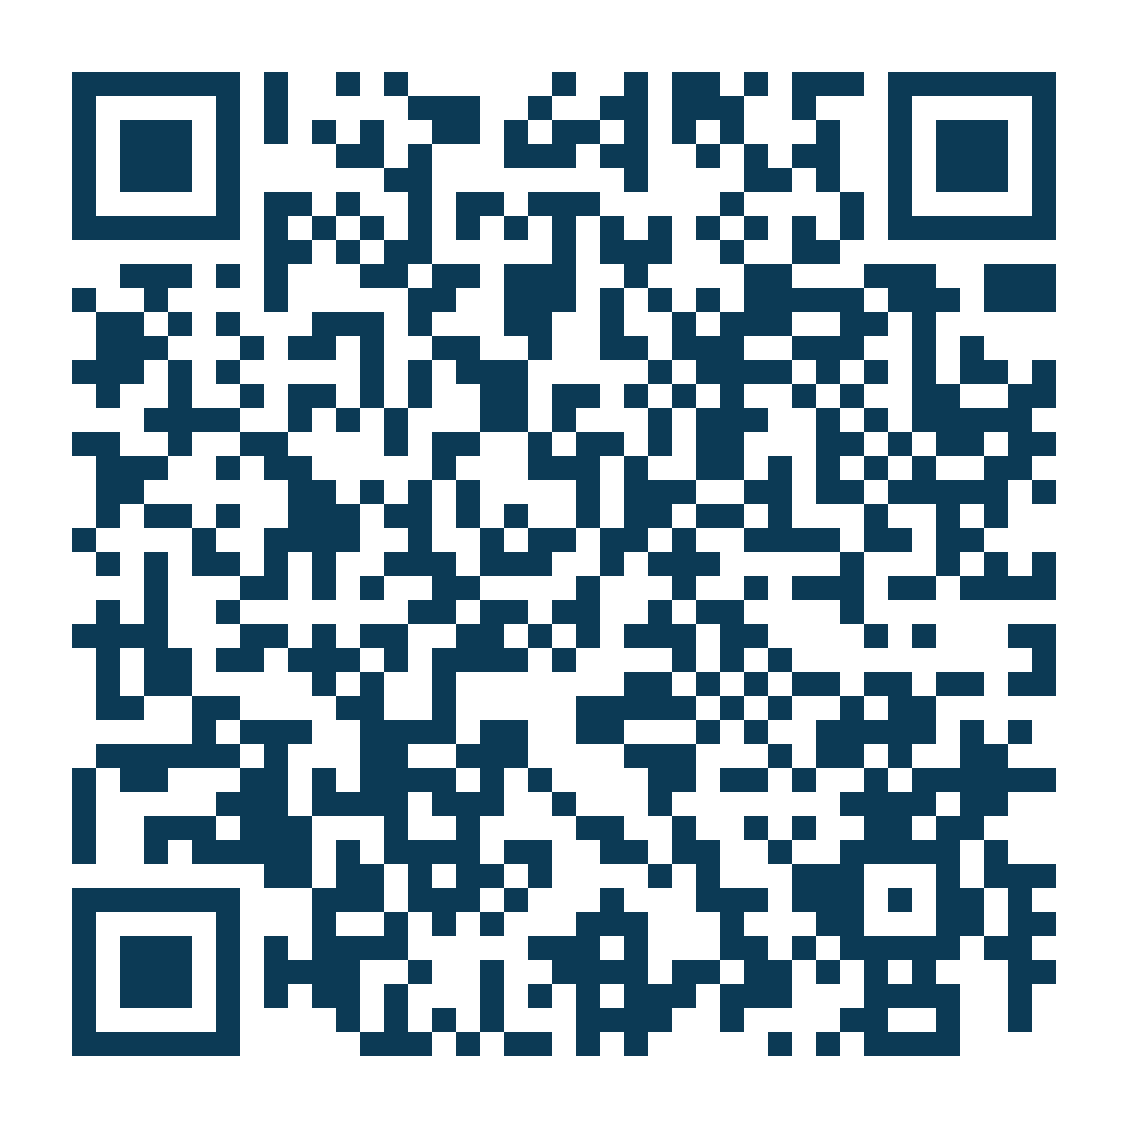
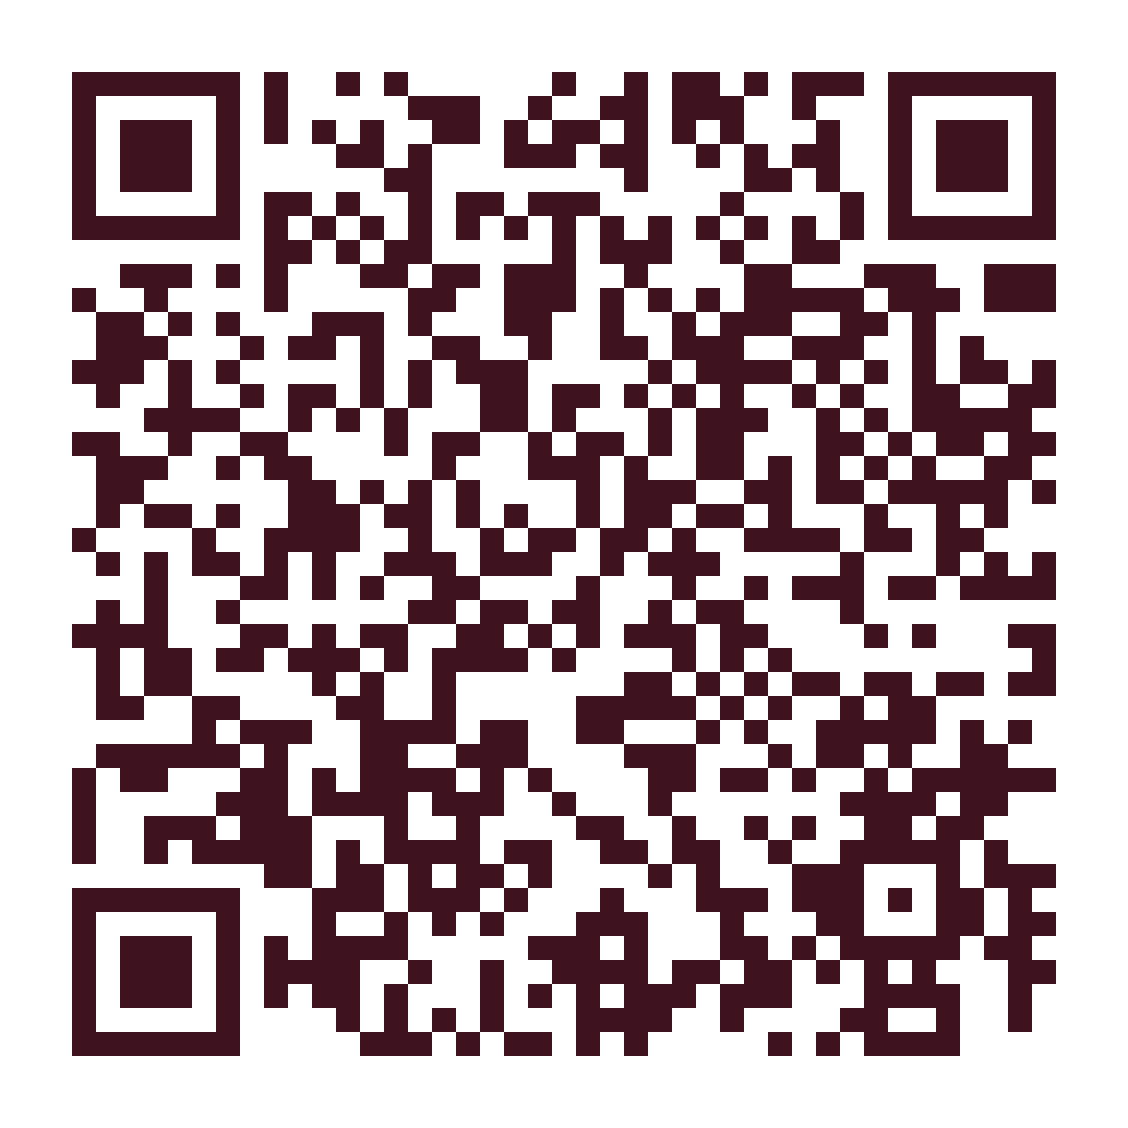
Paleta académica: vino y dorado en sitio, tarjeta, ícono y QR
Claude-Session: https://claude.ai/code/session_01FZGBeBnK8nJ8RkppgTbDx8

diff --git a/index.html b/index.html
@@ -6,7 +6,7 @@
 <title>Leonar Socarrás Molina, PhD · IA en educación</title>
 <meta name="description" content="Leonar Socarrás Molina, PhD. Docente-investigador en inteligencia artificial aplicada a la educación, STEM, Diseño Universal para el Aprendizaje y ciencia de datos. Valledupar, Colombia.">
 <meta name="author" content="Leonar Socarrás Molina">
-<meta name="theme-color" content="#0c3a55">
+<meta name="theme-color" content="#3f1220">
 <meta property="og:title" content="Leonar Socarrás Molina, PhD">
 <meta property="og:description" content="Docente-investigador en IA aplicada a la educación, STEM y DUA. Valledupar, Colombia.">
 <meta property="og:type" content="profile">
@@ -23,11 +23,11 @@
 </script>
 <style>
   :root{
-    --navy:#0c3a55;--navy-deep:#092d43;--ink:#0c3a55;--text:#3c4d5c;--muted:#5b6b78;
-    --bg:#ffffff;--bg-alt:#f3f8fb;--line:#d9e4ec;
-    --gold:#f4cf1f;--gold-ink:#a07f00;--gold-soft:#fff6cc;
-    --on-dark-muted:#cfdbe4;
-    --hero:linear-gradient(110deg,#3d5b8f 0%,#3b6f86 48%,#56767f 100%);
+    --navy:#3f1220;--navy-deep:#2e0c17;--ink:#3f1220;--text:#4a3b3e;--muted:#6e5d60;
+    --bg:#ffffff;--bg-alt:#faf6f2;--line:#eadfd8;
+    --gold:#d4a52c;--gold-ink:#8a6a12;--gold-soft:#f8edcf;
+    --on-dark-muted:#ead9dc;
+    --hero:linear-gradient(110deg,#5a1a2b 0%,#7a2a3c 55%,#8a3a45 100%);
     --font:"Montserrat",system-ui,-apple-system,"Segoe UI",sans-serif;
     --r-sm:8px;--r-md:14px;--wrap:1160px;
   }
@@ -58,13 +58,13 @@
   .figura{position:relative;width:380px;height:470px;margin-left:60px;}
   .rejilla{position:absolute;left:120px;top:-24px;width:300px;height:400px;border-left:1px solid rgba(255,255,255,.85);border-top:1px solid rgba(255,255,255,.85);
     background-image:linear-gradient(rgba(255,255,255,.85) 1px,transparent 1px),linear-gradient(90deg,rgba(255,255,255,.85) 1px,transparent 1px);background-size:100px 100px;}
-  .arco{position:absolute;inset:0;border-radius:190px 190px 0 0;overflow:hidden;background:#b9cfdc;}
+  .arco{position:absolute;inset:0;border-radius:190px 190px 0 0;overflow:hidden;background:#d9c2c6;}
   .arco img{width:100%;height:100%;object-fit:cover;object-position:50% 40%;}
   .estrella{position:absolute;fill:var(--gold);}
   .estrella.grande{width:150px;height:150px;left:-60px;top:-80px;z-index:1;}
   .texto-heroe{padding-bottom:8px;max-width:620px;}
   .texto-heroe h1{font-size:clamp(2.1rem,3.6vw,3rem);line-height:1.12;font-weight:700;margin:0 0 20px;letter-spacing:-.01em;}
-  .texto-heroe .intro{font-size:1.12rem;margin:0 0 26px;color:#eef3f7;}
+  .texto-heroe .intro{font-size:1.12rem;margin:0 0 26px;color:#f3e9ea;}
   .texto-heroe .intro strong{color:#fff;font-weight:700;}
   .redes{display:flex;gap:10px;margin:0 0 54px;padding:0;list-style:none;}
   .redes a{display:grid;place-items:center;width:42px;height:42px;border-radius:50%;text-decoration:none;font-weight:700;font-size:.85rem;border:1px solid rgba(255,255,255,.55);transition:background-color .15s,color .15s;}
@@ -97,13 +97,13 @@
   .cifras dd{margin:10px 0 0;color:var(--ink);font-weight:500;font-size:1rem;}
   .tarjetas{display:grid;grid-template-columns:repeat(3,1fr);gap:24px;}
   .tarjeta{background:#fff;border:1px solid var(--line);border-radius:var(--r-md);padding:30px 28px;transition:box-shadow .2s,transform .2s;}
-  .tarjeta:hover{box-shadow:0 14px 34px rgba(12,58,85,.10);transform:translateY(-3px);}
+  .tarjeta:hover{box-shadow:0 14px 34px rgba(63,18,32,.10);transform:translateY(-3px);}
   .tarjeta svg{width:34px;height:34px;fill:var(--gold);margin-bottom:18px;}
   .tarjeta h3{font-size:1.14rem;color:var(--ink);margin:0 0 10px;font-weight:700;line-height:1.3;}
   .tarjeta p{margin:0;font-size:.97rem;color:var(--muted);}
   .pista{display:grid;grid-auto-flow:column;grid-auto-columns:calc((100% - 48px)/3);gap:24px;overflow-x:auto;scroll-snap-type:x mandatory;padding:4px 2px 20px;scrollbar-width:thin;}
   .pub{scroll-snap-align:start;background:#fff;border:1px solid var(--line);border-radius:var(--r-md);padding:28px;display:flex;flex-direction:column;gap:14px;}
-  .pub .anio{align-self:flex-start;background:var(--gold-soft);color:#7a5f00;font-weight:700;font-size:.82rem;padding:4px 12px;border-radius:999px;}
+  .pub .anio{align-self:flex-start;background:var(--gold-soft);color:#6b5208;font-weight:700;font-size:.82rem;padding:4px 12px;border-radius:999px;}
   .pub h3{margin:0;color:var(--ink);font-size:1.02rem;line-height:1.4;font-weight:600;}
   .pub .revista{margin:0;color:var(--muted);font-size:.9rem;font-style:italic;}
   .pub a{margin-top:auto;color:var(--navy);font-weight:600;font-size:.9rem;text-decoration:none;}
@@ -134,7 +134,7 @@
   .linea-tiempo span.d{display:block;font-size:.93rem;color:var(--muted);}
   .nota{font-size:.93rem;color:var(--muted);margin:8px 0 0;}
   .instituciones{display:flex;flex-wrap:wrap;justify-content:center;gap:16px 44px;margin:0;padding:0;list-style:none;}
-  .instituciones li{font-weight:700;color:#5b6b78;font-size:1.02rem;}
+  .instituciones li{font-weight:700;color:#6e5d60;font-size:1.02rem;}
   .chips{display:flex;flex-wrap:wrap;gap:10px;margin:0;padding:0;list-style:none;}
   .chips li{background:#fff;border:1px solid var(--line);border-radius:999px;padding:7px 16px;font-size:.92rem;color:var(--ink);font-weight:500;}
   .cierre{background:var(--navy);color:#fff;padding:88px 0;position:relative;overflow:hidden;}
@@ -158,7 +158,7 @@
   .acc-cabeza{display:flex;justify-content:space-between;align-items:flex-end;gap:24px;flex-wrap:wrap;margin-bottom:32px;}
   .acordeon{display:grid;gap:14px;}
   .acc{background:#fff;border:1px solid var(--line);border-radius:var(--r-md);overflow:hidden;transition:box-shadow .2s,border-color .2s;scroll-margin-top:20px;}
-  .acc[open]{border-color:#b8cad7;box-shadow:0 14px 34px rgba(12,58,85,.08);}
+  .acc[open]{border-color:#d8c3bd;box-shadow:0 14px 34px rgba(63,18,32,.08);}
   .acc summary{list-style:none;display:flex;align-items:center;gap:18px;padding:20px 24px;cursor:pointer;}
   .acc summary::-webkit-details-marker{display:none;}
   .acc summary:hover{background:var(--bg-alt);}
@@ -167,7 +167,7 @@
   .acc-tit{flex:1;min-width:0;}
   .acc-tit h2{margin:0;font-size:1.22rem;line-height:1.25;color:var(--ink);font-weight:700;}
   .acc-tit small{display:block;color:var(--muted);font-size:.9rem;margin-top:2px;}
-  .acc-n{flex:none;min-width:34px;text-align:center;background:var(--gold-soft);color:#7a5f00;font-weight:700;font-size:.85rem;padding:4px 10px;border-radius:999px;}
+  .acc-n{flex:none;min-width:34px;text-align:center;background:var(--gold-soft);color:#6b5208;font-weight:700;font-size:.85rem;padding:4px 10px;border-radius:999px;}
   .acc-flecha{flex:none;width:36px;height:36px;border-radius:50%;border:1px solid var(--line);position:relative;transition:transform .25s,background-color .2s;}
   .acc-flecha::before{content:"";position:absolute;left:50%;top:45%;width:9px;height:9px;border-right:2px solid var(--navy);border-bottom:2px solid var(--navy);transform:translate(-50%,-50%) rotate(45deg);}
   .acc[open] .acc-flecha{transform:rotate(180deg);background:var(--gold);border-color:var(--gold);}
@@ -182,7 +182,7 @@
   .acc .chips li{background:var(--bg-alt);}
   @media (max-width:1080px){
     .heroe::after{display:none;}
-    .heroe{background:linear-gradient(180deg,#3d5b8f 0%,#3b6f86 40%,#0c3a55 78%);}
+    .heroe{background:linear-gradient(180deg,#5a1a2b 0%,#7a2a3c 40%,#3f1220 78%);}
     .heroe-grid{grid-template-columns:1fr;gap:56px;justify-items:start;padding-top:56px;}
     .figura{margin-left:70px;}
     .guia{display:none;}

diff --git a/tarjeta.html b/tarjeta.html
@@ -5,7 +5,7 @@
 <meta name="viewport" content="width=device-width, initial-scale=1.0">
 <title>Tarjeta · Leonar Socarrás Molina, PhD</title>
 <meta name="description" content="Tarjeta digital de Leonar Socarrás Molina, PhD: contacto, perfiles académicos y redes.">
-<meta name="theme-color" content="#0c3a55">
+<meta name="theme-color" content="#3f1220">
 <meta property="og:title" content="Leonar Socarrás Molina, PhD · Tarjeta digital">
 <meta property="og:description" content="Docente-investigador en IA aplicada a la educación, STEM y DUA. Guarda mi contacto y visita mis perfiles.">
 <meta property="og:image" content="https://leonar-socarras.github.io/img/avatar.jpg">
@@ -16,17 +16,17 @@
 <link rel="preconnect" href="https://fonts.gstatic.com" crossorigin>
 <link href="https://fonts.googleapis.com/css2?family=Montserrat:wght@400;500;600;700&display=swap" rel="stylesheet">
 <style>
-  :root{--navy:#0c3a55;--gold:#f4cf1f;--gold-ink:#a07f00;--text:#3c4d5c;--muted:#5b6b78;--line:#d9e4ec;--bg-alt:#f3f8fb;
-    --hero:linear-gradient(140deg,#3d5b8f 0%,#3b6f86 55%,#0c3a55 100%);--font:"Montserrat",system-ui,-apple-system,"Segoe UI",sans-serif;}
+  :root{--navy:#3f1220;--gold:#d4a52c;--gold-ink:#8a6a12;--text:#4a3b3e;--muted:#6e5d60;--line:#eadfd8;--bg-alt:#faf6f2;
+    --hero:linear-gradient(140deg,#5a1a2b 0%,#7a2a3c 55%,#3f1220 100%);--font:"Montserrat",system-ui,-apple-system,"Segoe UI",sans-serif;}
   *{box-sizing:border-box;}
   body{margin:0;min-height:100vh;font-family:var(--font);color:var(--text);background:var(--hero);display:flex;justify-content:center;align-items:flex-start;padding:28px 16px 40px;}
   :focus-visible{outline:3px solid var(--gold);outline-offset:3px;border-radius:6px;}
-  .tarjeta{width:100%;max-width:420px;background:#fff;border-radius:22px;overflow:hidden;box-shadow:0 24px 60px rgba(4,25,40,.35);}
+  .tarjeta{width:100%;max-width:420px;background:#fff;border-radius:22px;overflow:hidden;box-shadow:0 24px 60px rgba(40,8,18,.35);}
   .cabecera{position:relative;background:var(--navy);color:#fff;padding:22px 22px 70px;}
   .cabecera .fila{display:flex;align-items:center;gap:10px;font-weight:700;font-size:.95rem;letter-spacing:.02em;}
   .cabecera .fila img{width:34px;height:34px;}
   .cabecera svg.estrella{position:absolute;right:22px;top:18px;width:44px;height:44px;fill:var(--gold);}
-  .foto{width:132px;height:132px;border-radius:50%;border:5px solid #fff;object-fit:cover;display:block;margin:-66px auto 0;position:relative;background:#cfdbe4;}
+  .foto{width:132px;height:132px;border-radius:50%;border:5px solid #fff;object-fit:cover;display:block;margin:-66px auto 0;position:relative;background:#d9c2c6;}
   .cuerpo{padding:14px 24px 26px;text-align:center;}
   h1{margin:6px 0 4px;color:var(--navy);font-size:1.45rem;line-height:1.2;}
   .cargo{margin:0 0 4px;font-weight:600;color:var(--gold-ink);font-size:.95rem;}
